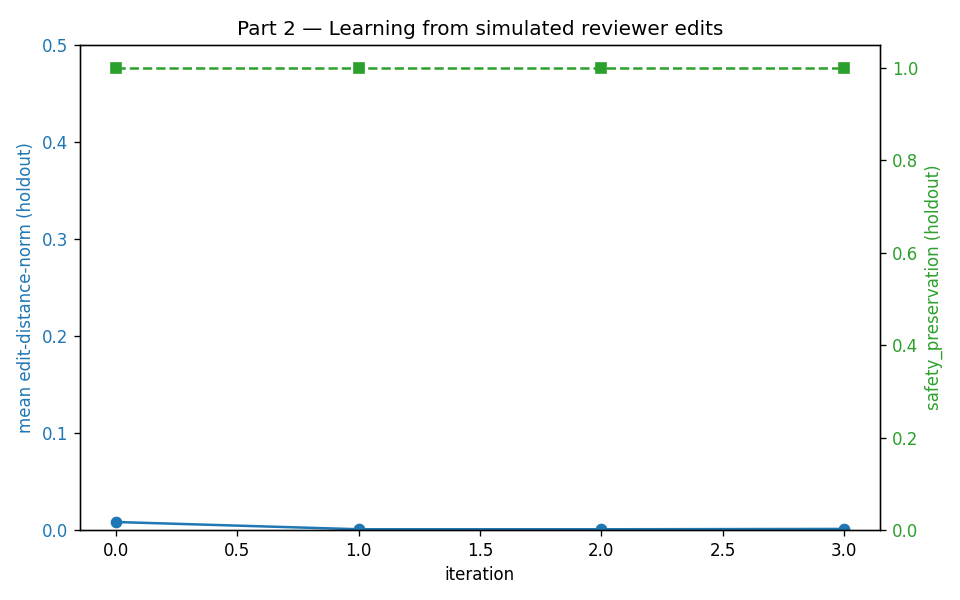
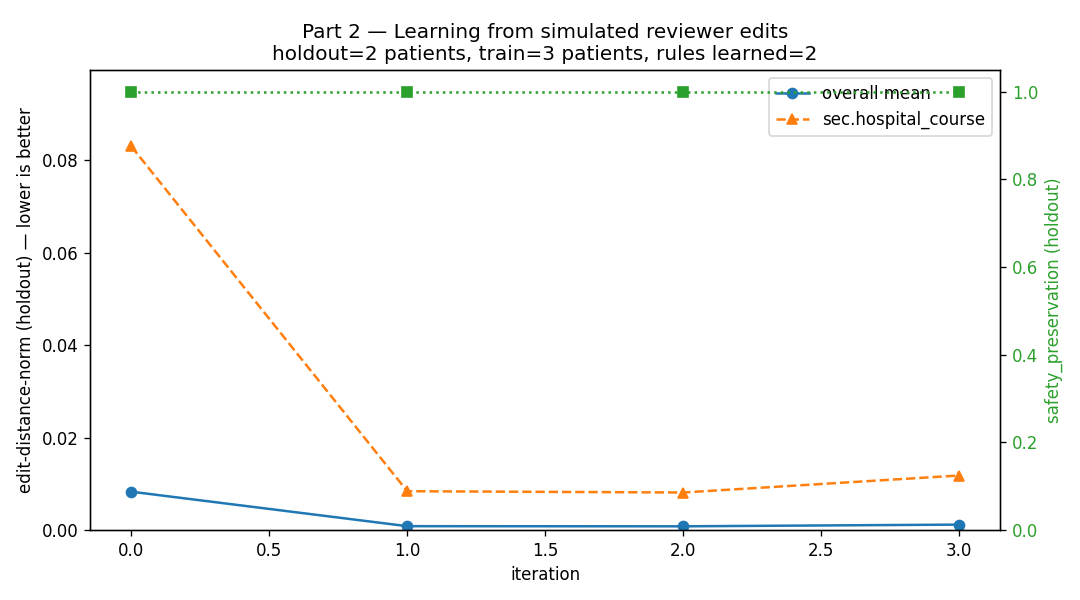
plot: better y-scale and overlay per-section line for hospital course

diff --git a/src/medgent/learning/train.py b/src/medgent/learning/train.py
@@ -149,24 +149,33 @@ def plot_metrics(metrics: list[IterationMetrics], out_path: Path) -> None:
 
     iters = [m.iteration for m in metrics]
     eds = [m.holdout_edit_distance_norm for m in metrics]
+    hospital = [m.per_section.get("sec.hospital_course", 0.0) for m in metrics]
     safety = [m.holdout_safety_preservation for m in metrics]
 
-    fig, ax1 = plt.subplots(figsize=(8, 5))
+    fig, ax1 = plt.subplots(figsize=(9, 5))
     color1 = "tab:blue"
+    color1b = "tab:orange"
     ax1.set_xlabel("iteration")
-    ax1.set_ylabel("mean edit-distance-norm (holdout)", color=color1)
-    ax1.plot(iters, eds, "o-", color=color1, label="edit_distance_norm")
-    ax1.tick_params(axis="y", labelcolor=color1)
-    ax1.set_ylim(0, max(0.5, max(eds) * 1.1))
+    ax1.set_ylabel("edit-distance-norm (holdout) — lower is better")
+    ax1.plot(iters, eds, "o-", color=color1, label="overall mean")
+    ax1.plot(iters, hospital, "^--", color=color1b, label="sec.hospital_course")
+    # Auto-scale Y to include the data range tightly
+    y_max = max(0.005, max(eds + hospital) * 1.2)
+    ax1.set_ylim(0, y_max)
+    ax1.tick_params(axis="y")
+    ax1.legend(loc="upper right")
 
     ax2 = ax1.twinx()
     color2 = "tab:green"
     ax2.set_ylabel("safety_preservation (holdout)", color=color2)
-    ax2.plot(iters, safety, "s--", color=color2, label="safety_preservation")
+    ax2.plot(iters, safety, "s:", color=color2, label="safety_preservation")
     ax2.tick_params(axis="y", labelcolor=color2)
     ax2.set_ylim(0, 1.05)
 
-    plt.title("Part 2 — Learning from simulated reviewer edits")
+    plt.title(
+        "Part 2 — Learning from simulated reviewer edits\n"
+        f"holdout=2 patients, train=3 patients, rules learned={metrics[-1].rules_total}"
+    )
     fig.tight_layout()
     fig.savefig(out_path, dpi=120)
     log.info("plot saved to %s", out_path)
